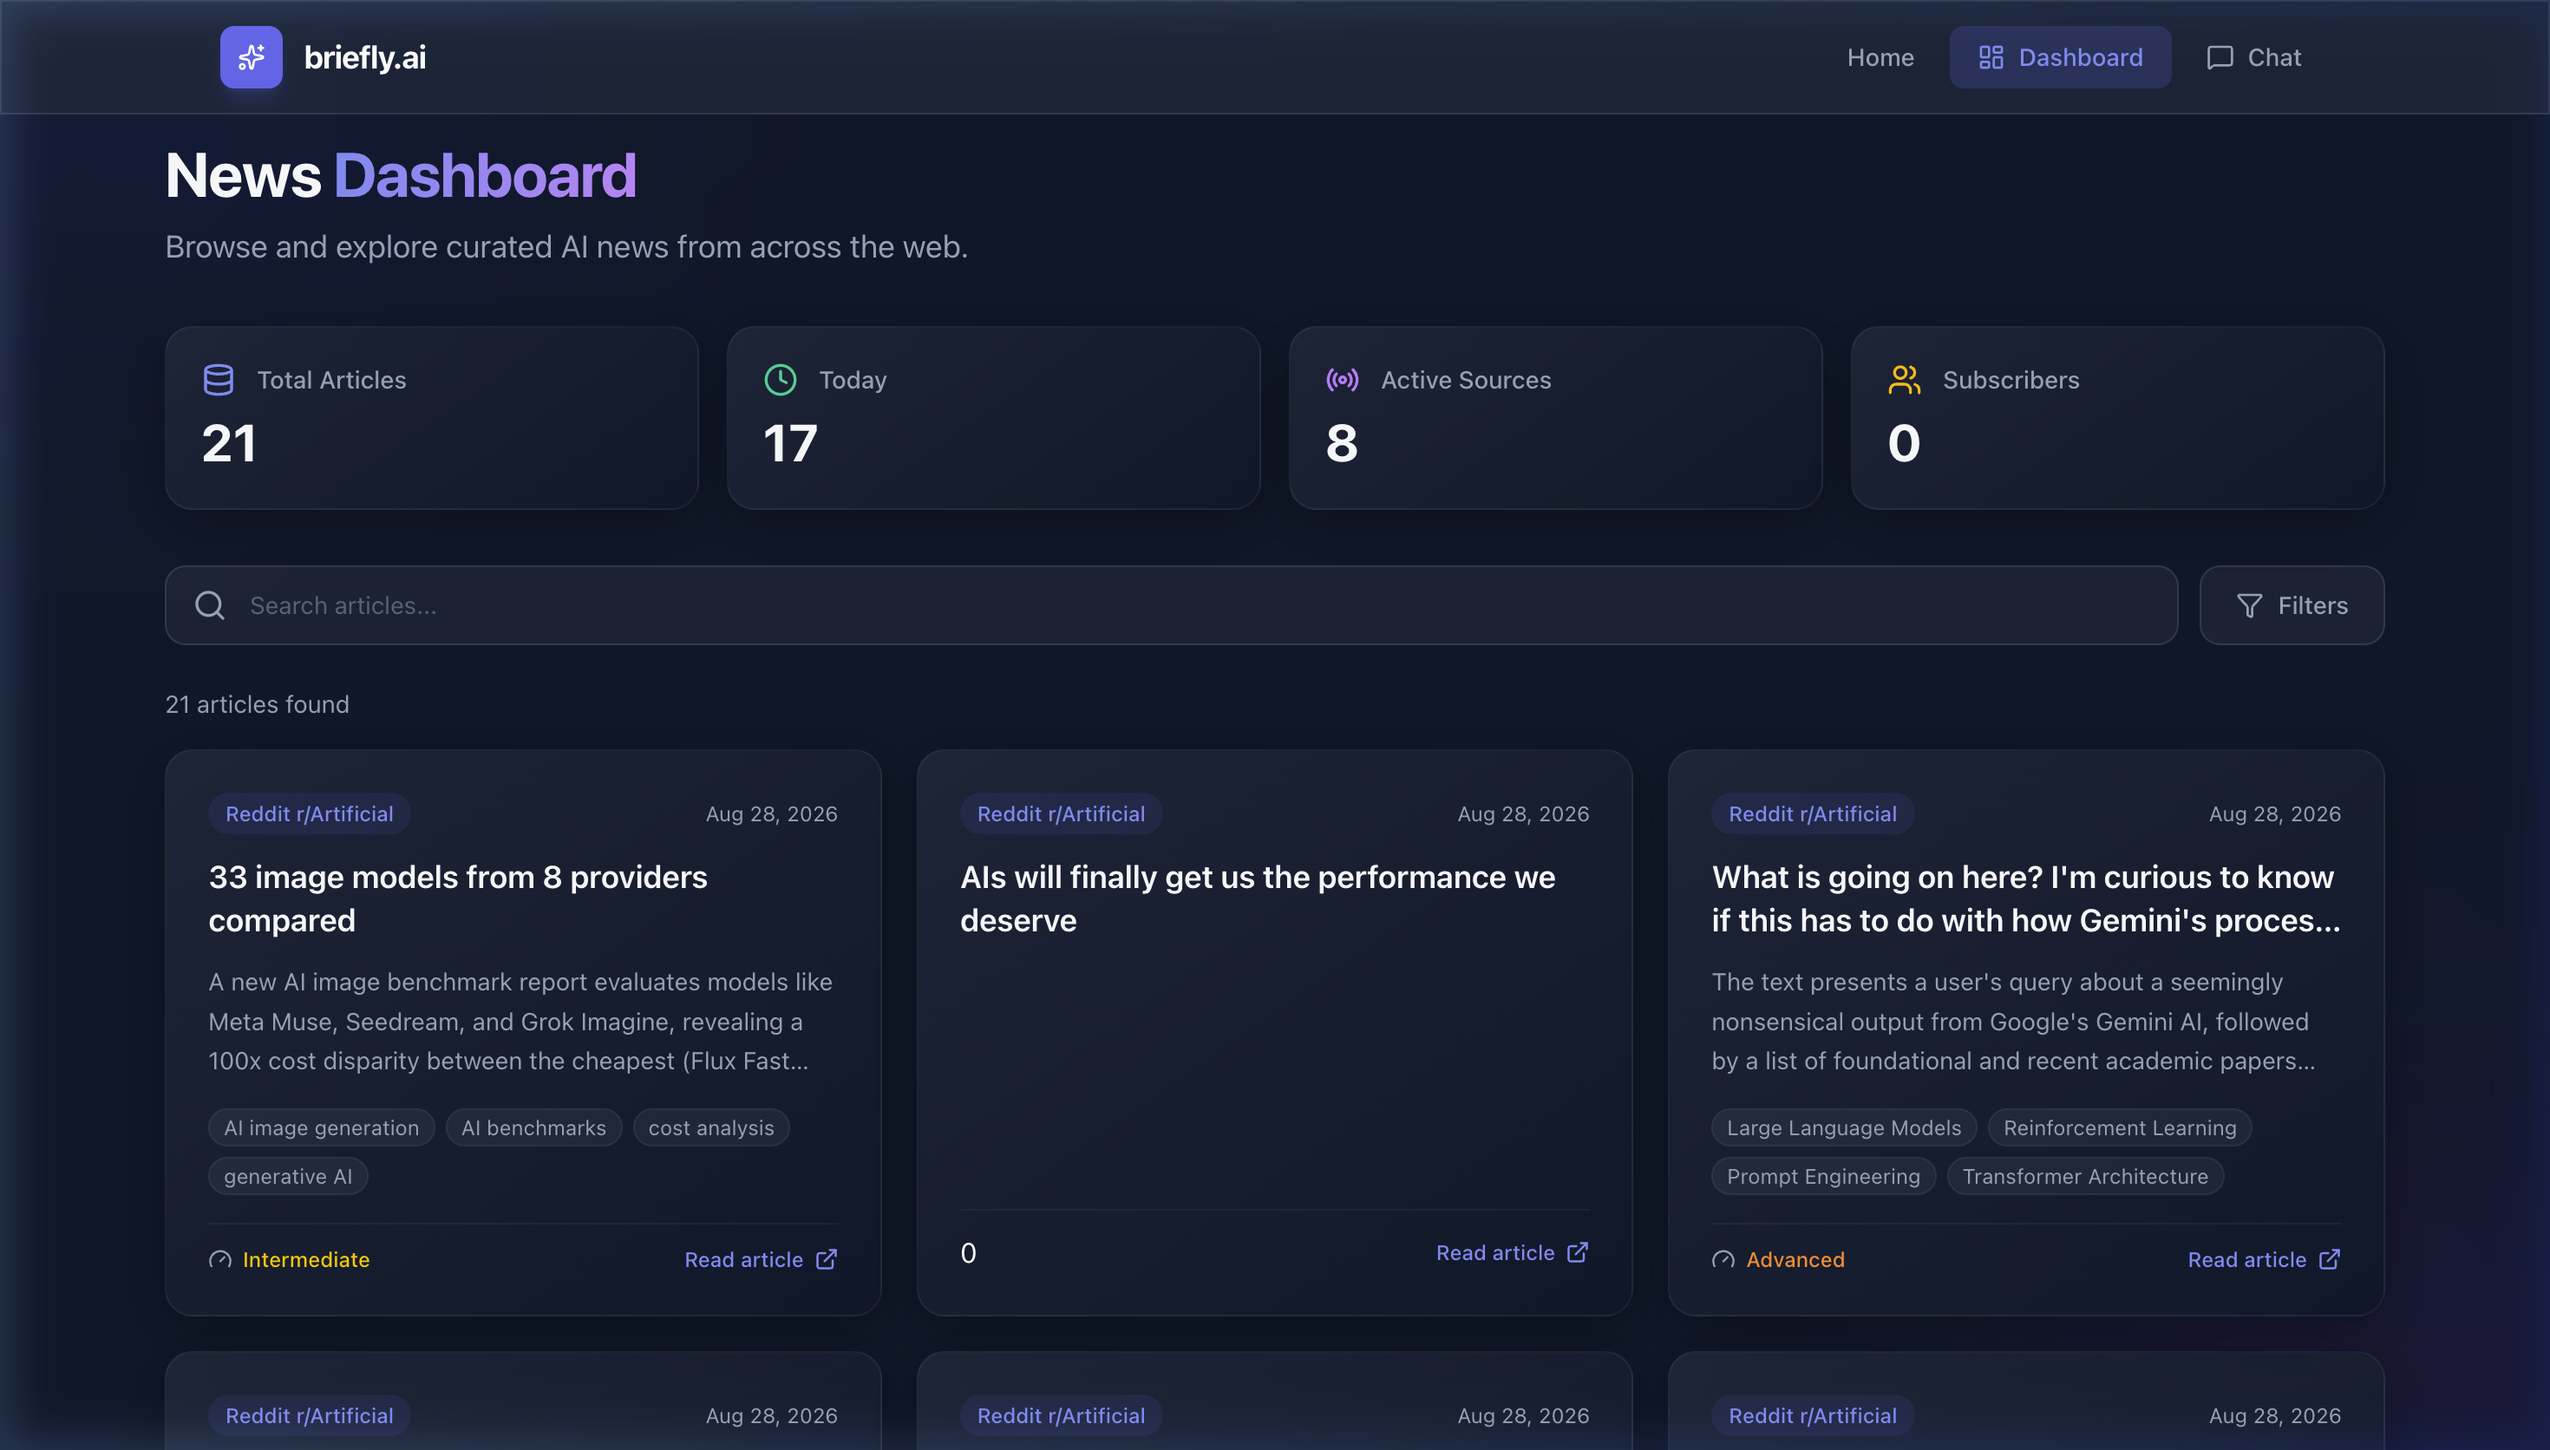
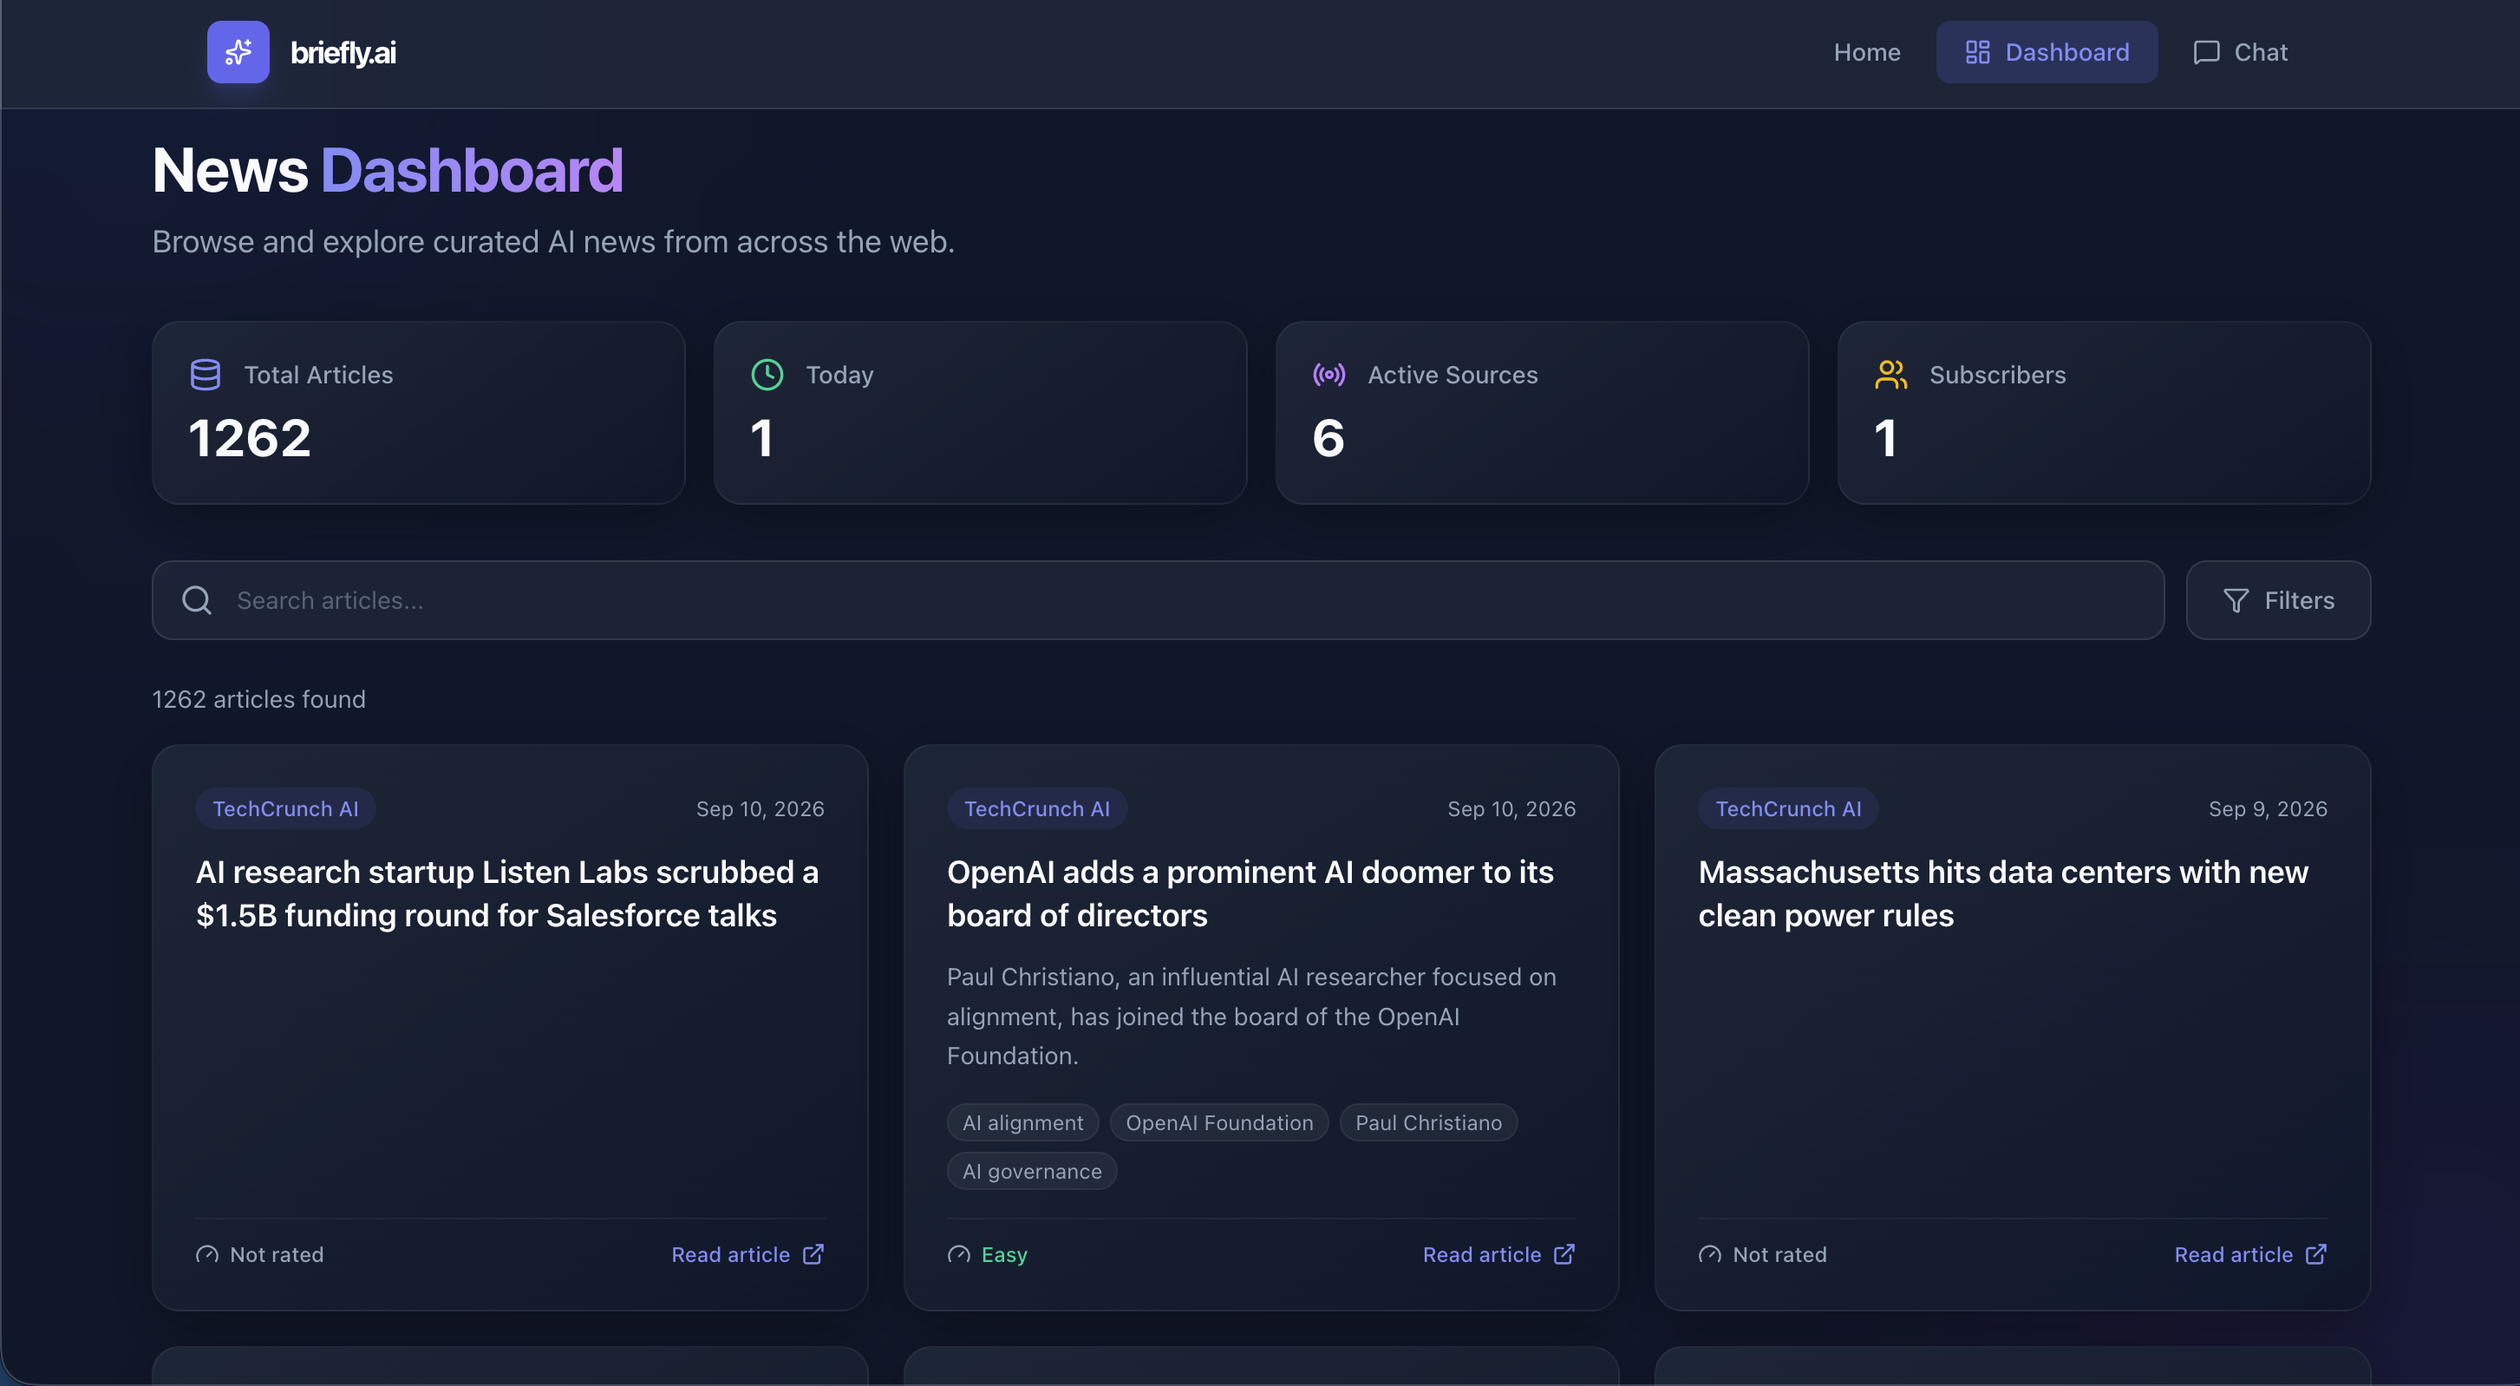
fix: updated docs and README

diff --git a/README.md b/README.md
@@ -25,7 +25,7 @@
 
 ## Overview
 
-Briefly.ai is a production-oriented full-stack Generative AI application that automatically ingests news from 8+ curated AI sources, analyzes and extracts insights using Google Gemini, scores content against individual user preferences, generates 3072-dimensional vector embeddings in PostgreSQL (`pgvector`), and delivers both personalized daily digests and an interactive web exploration platform.
+Briefly.ai is a production-oriented full-stack Generative AI application that automatically ingests news from 6+ curated AI sources, analyzes and extracts insights using Google Gemini, scores content against individual user preferences, generates 3072-dimensional vector embeddings in PostgreSQL (`pgvector`), and delivers both personalized daily digests and an interactive web exploration platform.
 
 ### Core User Capabilities
 1. **Personalized Daily Briefings** - Receive an automated email digest every morning curated specifically to your selected AI domains (LLMs, Robotics, AI Safety, Startups, Hardware, etc.).
@@ -78,7 +78,7 @@ Briefly.ai is a production-oriented full-stack Generative AI application that au
 ## Key Features
 
 ### Intelligence & Automated Pipeline
-- **8 Curated RSS Feeds:** Ingests TechCrunch AI, OpenAI Blog, Anthropic News, Google DeepMind, Hugging Face, MIT Tech Review, Reddit r/Artificial, and r/MachineLearning.
+- **6 Curated RSS Feeds:** Ingests TechCrunch AI, OpenAI Blog, Anthropic News, Google DeepMind, Hugging Face, MIT Tech Review.
 - **Pydantic-Enforced Extraction:** Google Gemini 2.5 Flash extracts a single-sentence key takeaway, structured summary points, topic tags, and technical complexity scores (1–5).
 - **Automated Content Moderation:** Rejects spam, off-topic articles, and inappropriate submissions (`is_appropriate_ai_news`).
 - **Adaptive Personalization & Feedback Learning:** Blends explicit user preferences (+5 per keyword match) with learned tag affinities ($\pm 2$ per tag) aggregated over a **60-day historical feedback window**. Applies conservative tag canonicalization (`normalize_tag`) and clamps learned affinity to $[-4, +4]$ to reduce the risk of runaway topic reinforcement and filter bubbles while preserving explainability.
@@ -105,7 +105,7 @@ Briefly.ai is a production-oriented full-stack Generative AI application that au
 │   │ (Cron)       │ POST /api/cron/...  │  ┌───────────────────────────┐  │  │
 │   └──────────────┘                     │  │     Pipeline (BG Task)    │  │  │
 │                                        │  │                           │  │  │
-│                                        │  │ 1. Scrape   ─► RSS ×8     │  │  │
+│                                        │  │ 1. Scrape   ─► RSS ×6     │  │  │
 │                                        │  │ 2. Process  ─► Gemini 2.5 │  │  │
 │                                        │  │ 2.5. Embed  ─► pgvector   │  │  │
 │                                        │  │ 3. Curate   ─► Score +    │  │  │
